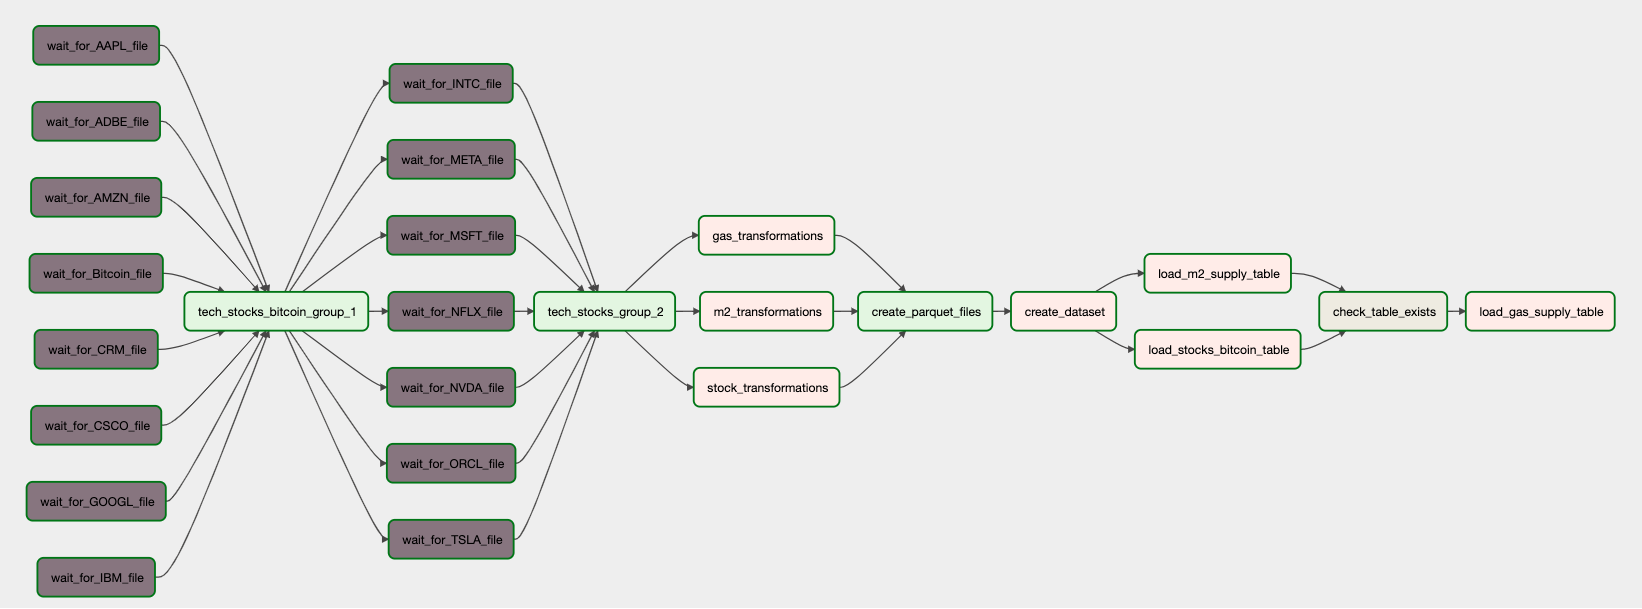
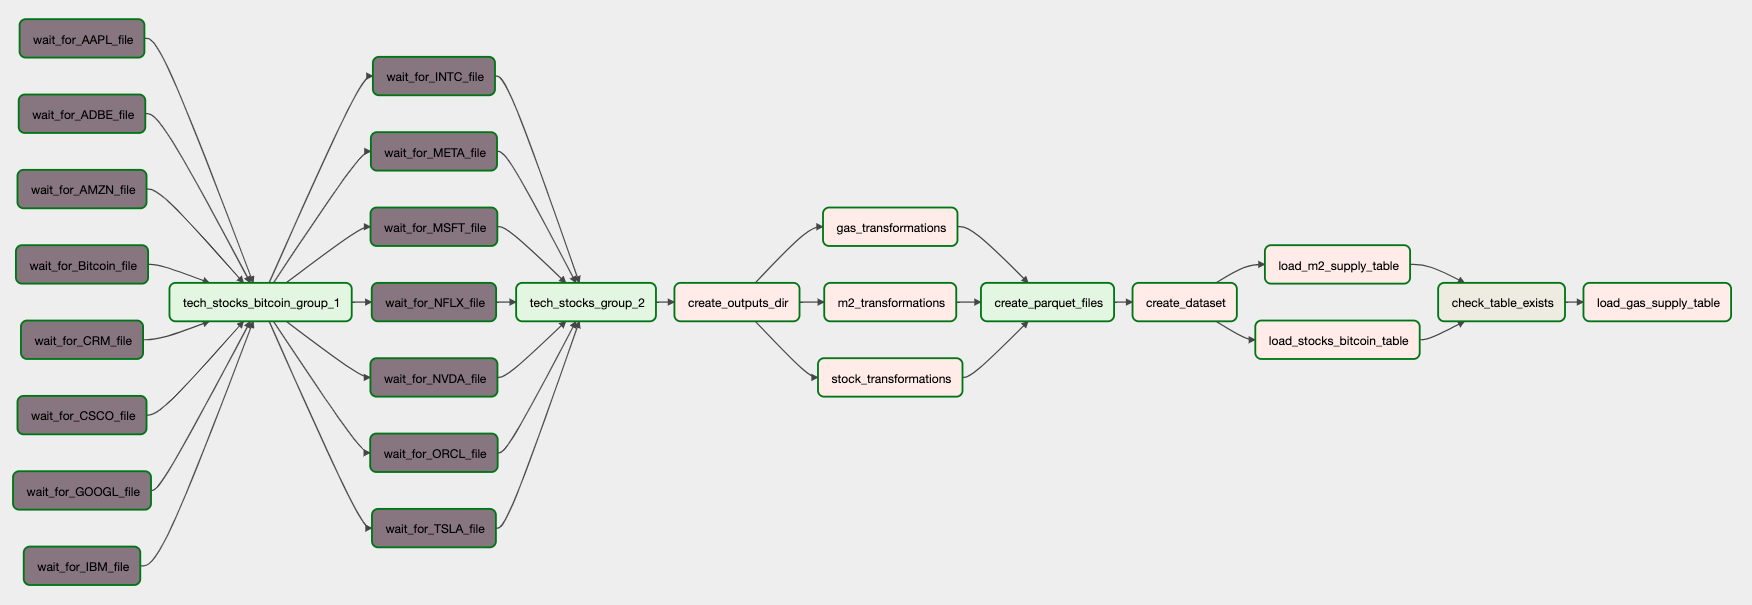
Add code that creates output directory in data dir for parquet files

diff --git a/dsa-airflow/dags/rg_load.py b/dsa-airflow/dags/rg_load.py
@@ -11,7 +11,7 @@ from airflow.providers.google.cloud.sensors.bigquery import BigQueryTableExisten
 import yaml
 
 # local imports
-from rg_work import create_dataset, create_stocks_table, data_dir, config, stocks_transform, m2_transform, create_m2_table, gas_transform, create_gas_table
+from rg_work import create_dataset, create_stocks_table, data_dir, config, stocks_transform, m2_transform, create_m2_table, gas_transform, create_gas_table, create_data_outputs
 
 data_file_names1 = ['AAPL', 'ADBE','AMZN', 'Bitcoin', 'CRM', 'CSCO', 'GOOGL', 'IBM']
 data_file_names2 = ['INTC','META','MSFT','NFLX','NVDA','ORCL','TSLA']
@@ -74,6 +74,12 @@ with DAG(
     
     check_2_com = EmptyOperator(task_id='tech_stocks_group_2')
 
+    outputs_dir_task = PythonOperator(
+        task_id='create_outputs_dir',
+        python_callable = create_data_outputs,
+        doc_md = create_data_outputs.__doc__        # adding function docstring as task doc
+    )
+
     stock_transf_task = PythonOperator(
         task_id='stock_transformations',
         python_callable = stocks_transform,
@@ -129,4 +135,4 @@ with DAG(
 
 
 
-    check_1 >> check_1_com >> check_2 >> check_2_com >> [stock_transf_task, m2_transf_task, gas_transf_task] >> parquet_task >> t0 >> [stocks_table_task, m2_table_task] >> bq_m2_check >> gas_table_task
+    check_1 >> check_1_com >> check_2 >> check_2_com >> outputs_dir_task >> [stock_transf_task, m2_transf_task, gas_transf_task] >> parquet_task >> t0 >> [stocks_table_task, m2_table_task] >> bq_m2_check >> gas_table_task

diff --git a/dsa-airflow/dags/rg_work.py b/dsa-airflow/dags/rg_work.py
@@ -23,6 +23,10 @@ data_dir = data_fs.get_path()
 
 #Initialize spark for ETL to parquet files
 #------------------------------------------------
+def create_data_outputs():
+    os.mkdir(os.path.join(data_dir,'outputs'))
+
+
 def stocks_transform():
     file_names = config['stocks_file_names']
 
